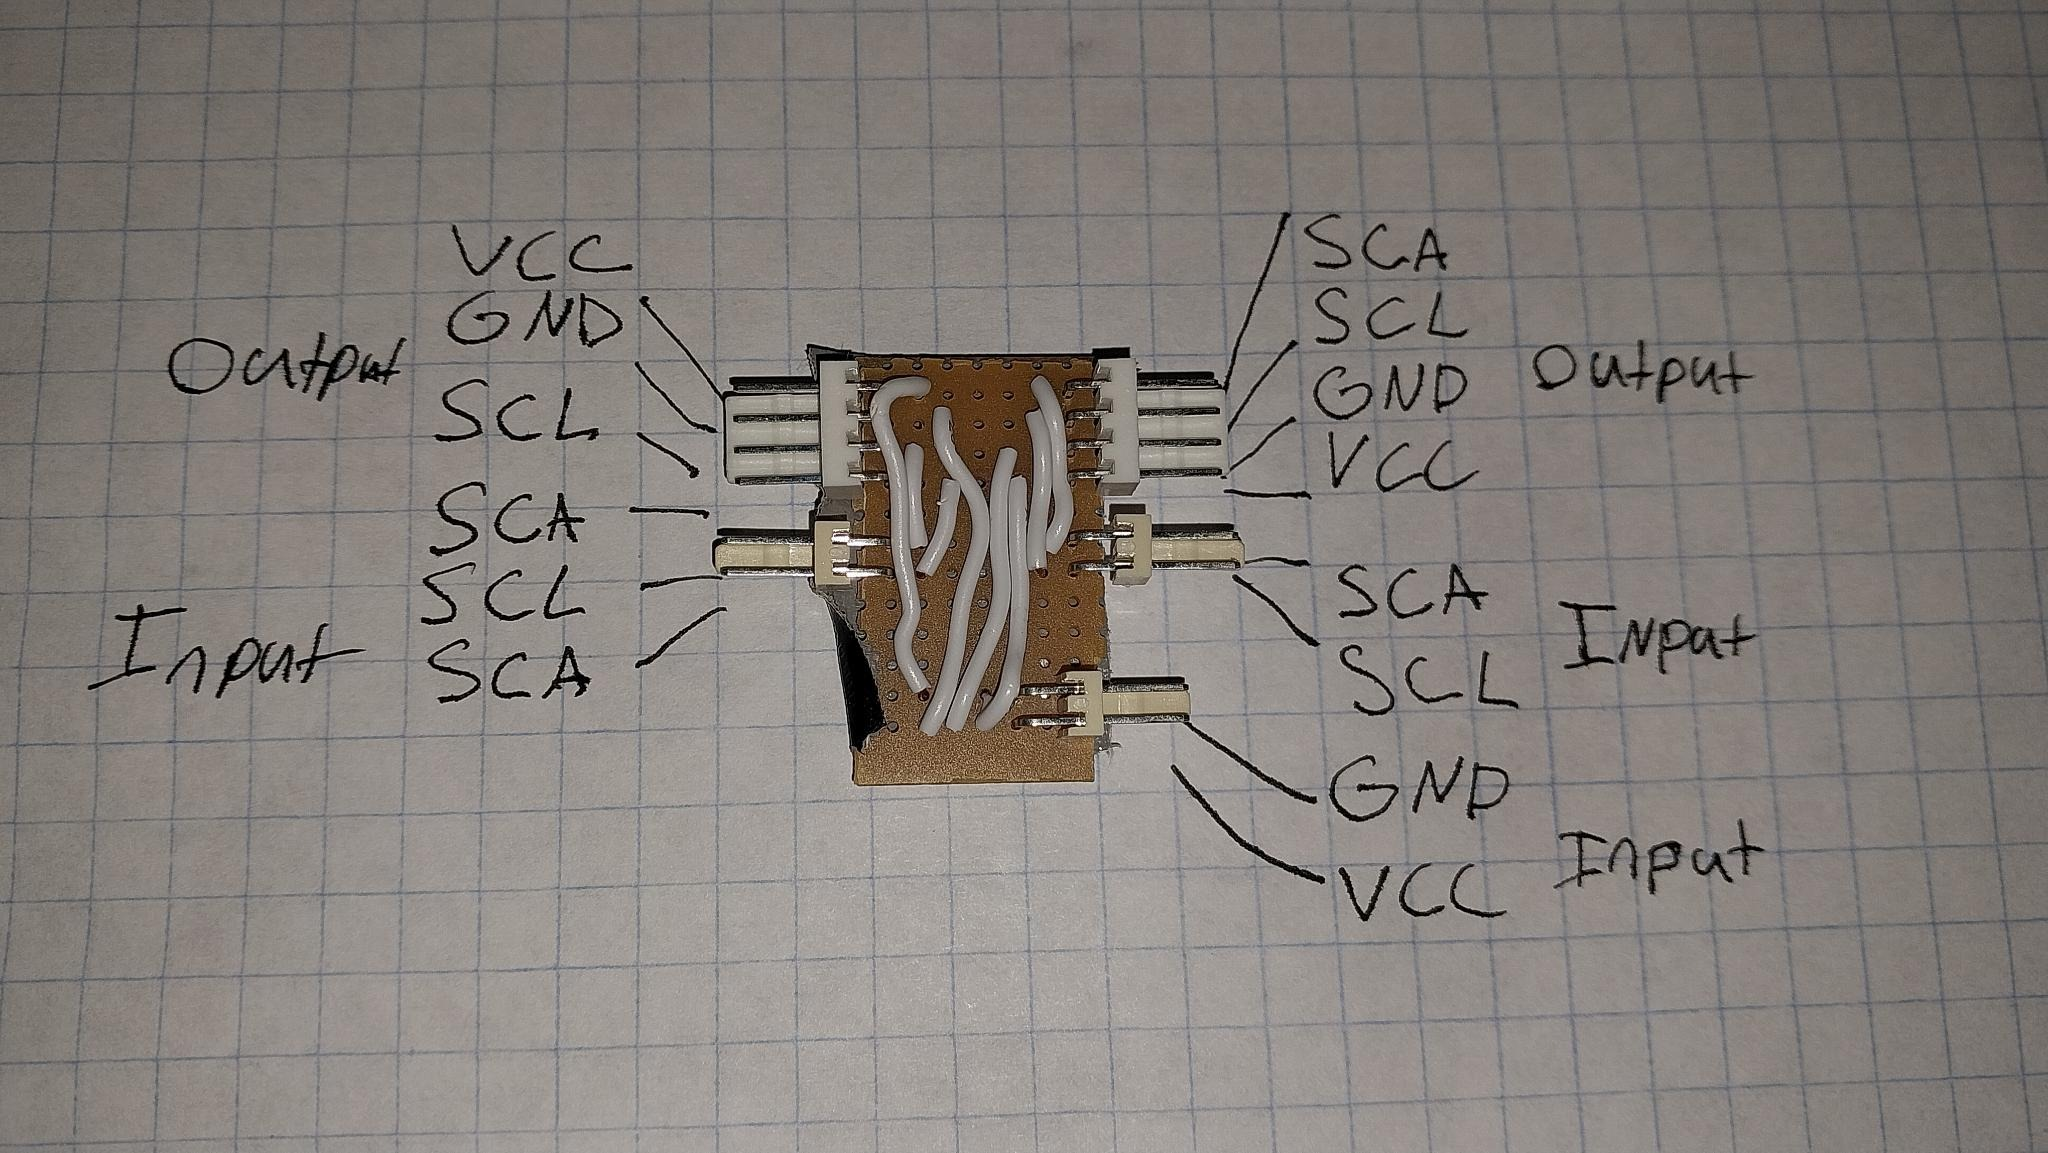
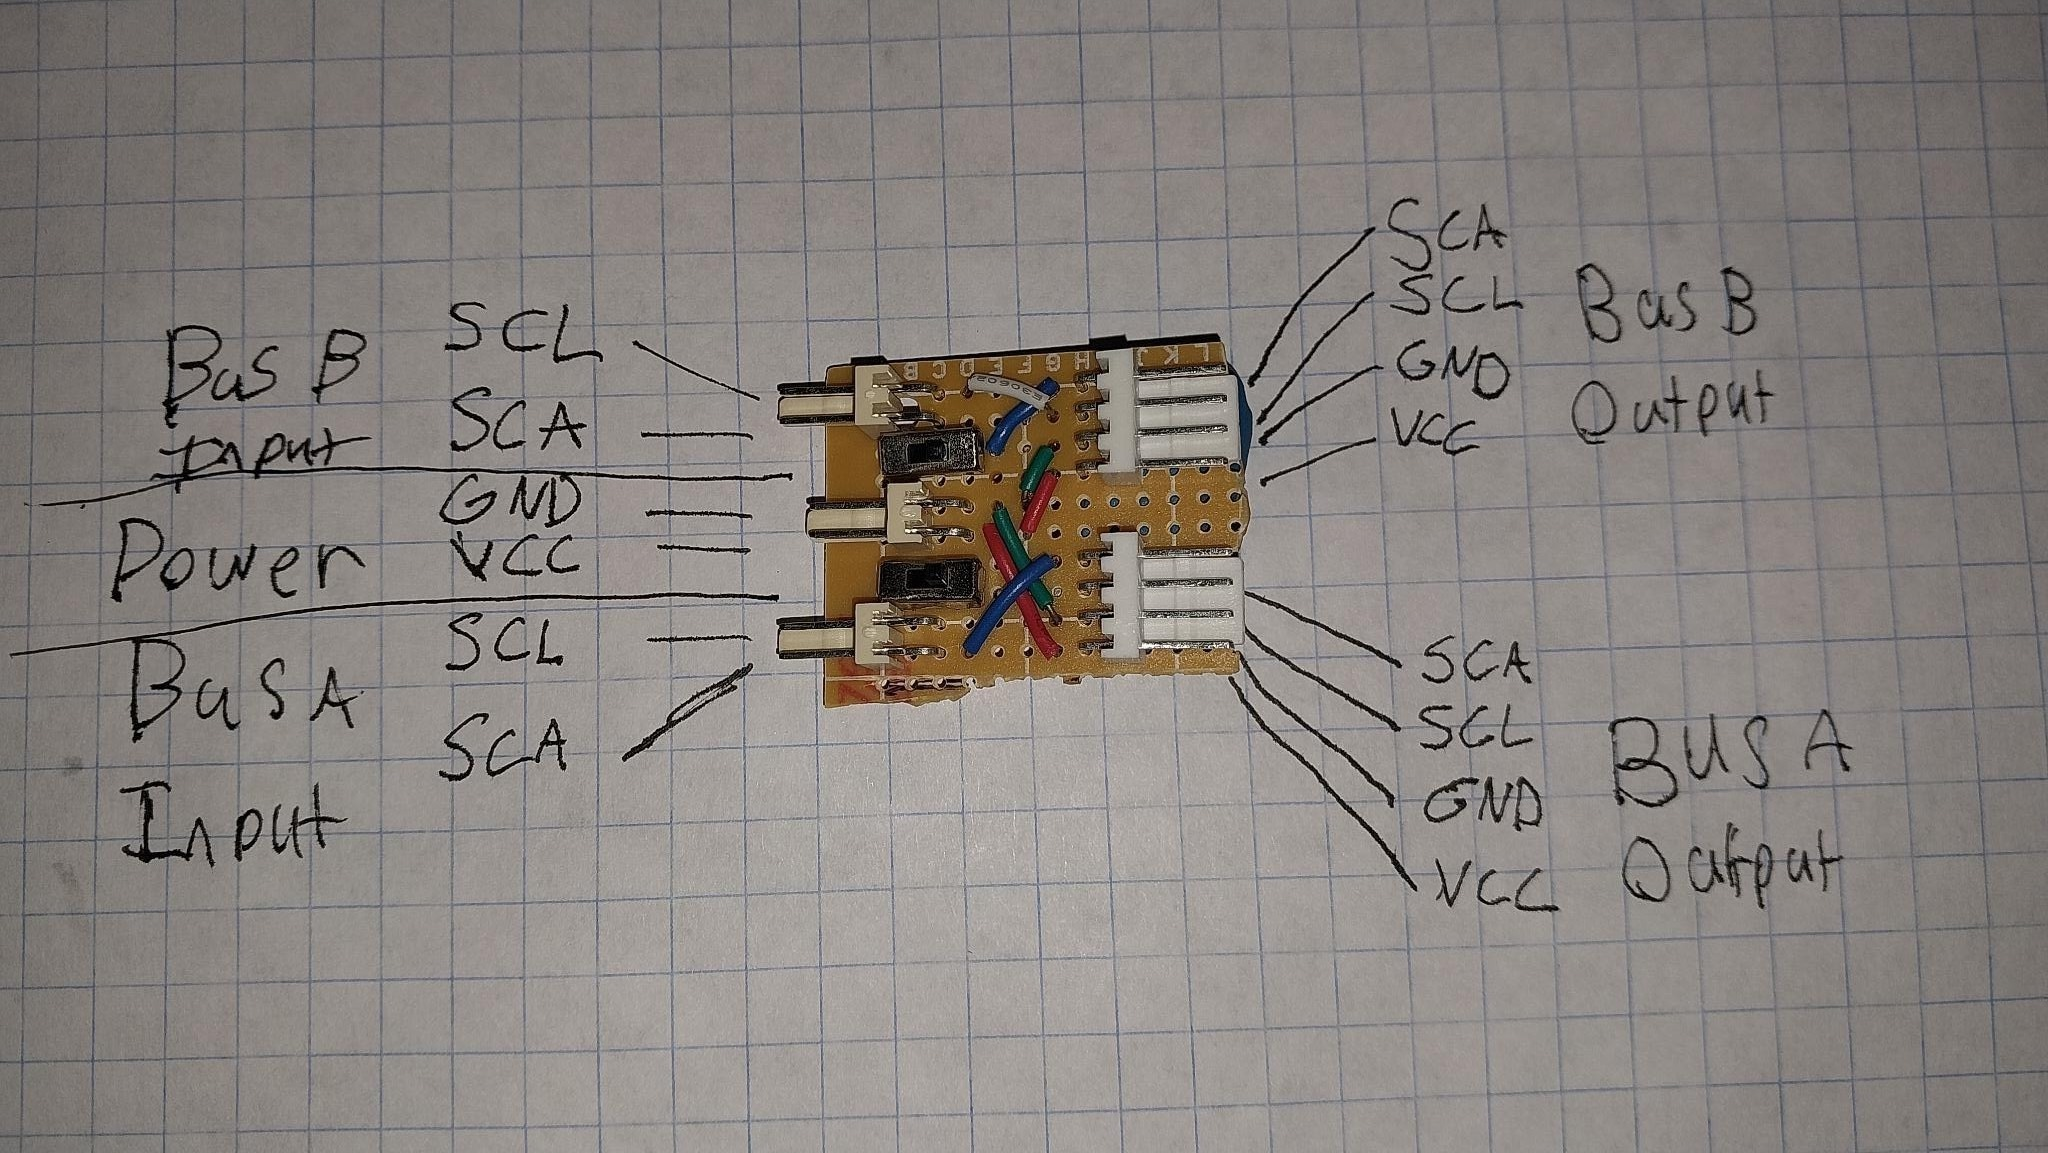
add switch for device check, update image

diff --git a/main.py b/main.py
@@ -4,12 +4,17 @@ from utime import sleep_ms
 from machine import Pin, freq
 
 led = Pin(25, Pin.OUT)
+missing_toggle = Pin(16, Pin.IN)
+missing_pwr = Pin(17, Pin.OUT)
+missing_pwr.value(1)
 
 i2c_controllers = {0: {'pins': (0, 1)},
                    1: {'pins': (26, 27)}}
 
+ignore_missing = bool(missing_toggle.value())
+
 try:
-    s = SensorController(i2c_controllers, ignore_missing=False, interval=250)
+    s = SensorController(i2c_controllers, ignore_missing=ignore_missing, interval=250)
 except Exception as e:
     print(e)
     for _ in range(50):
